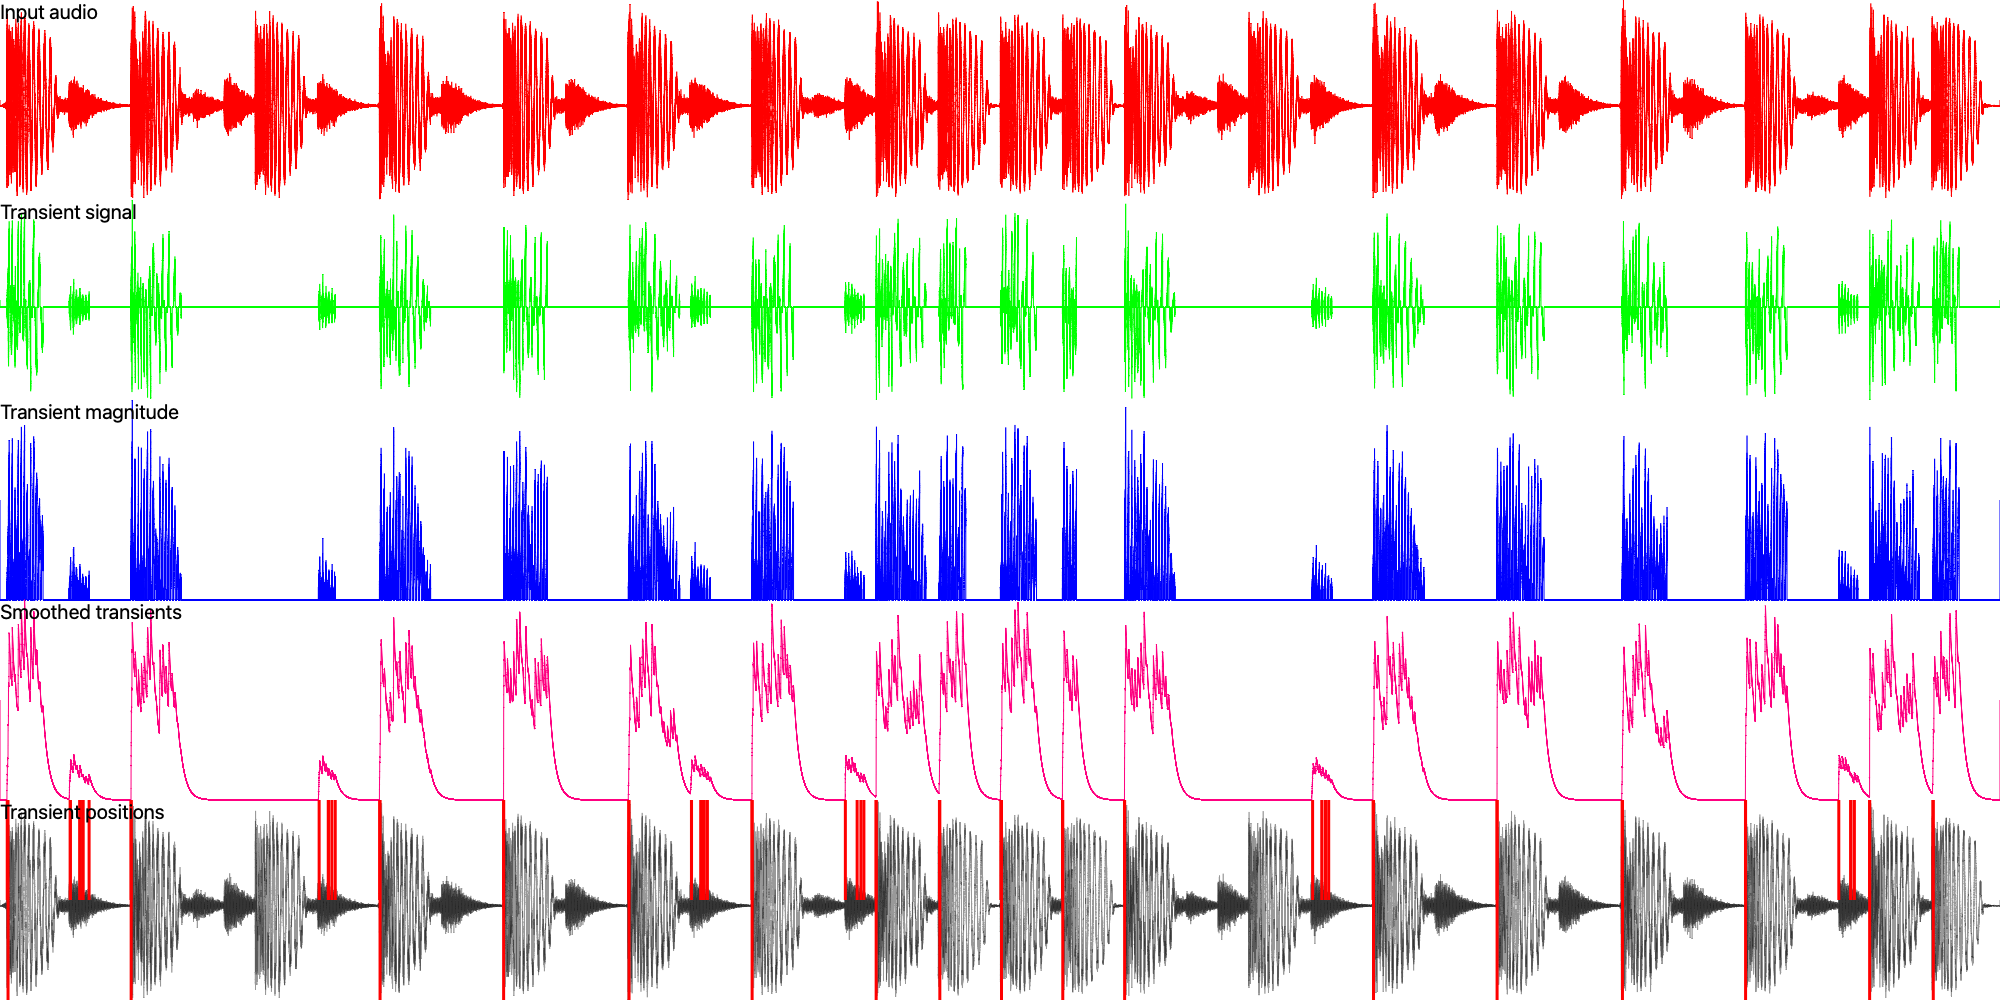
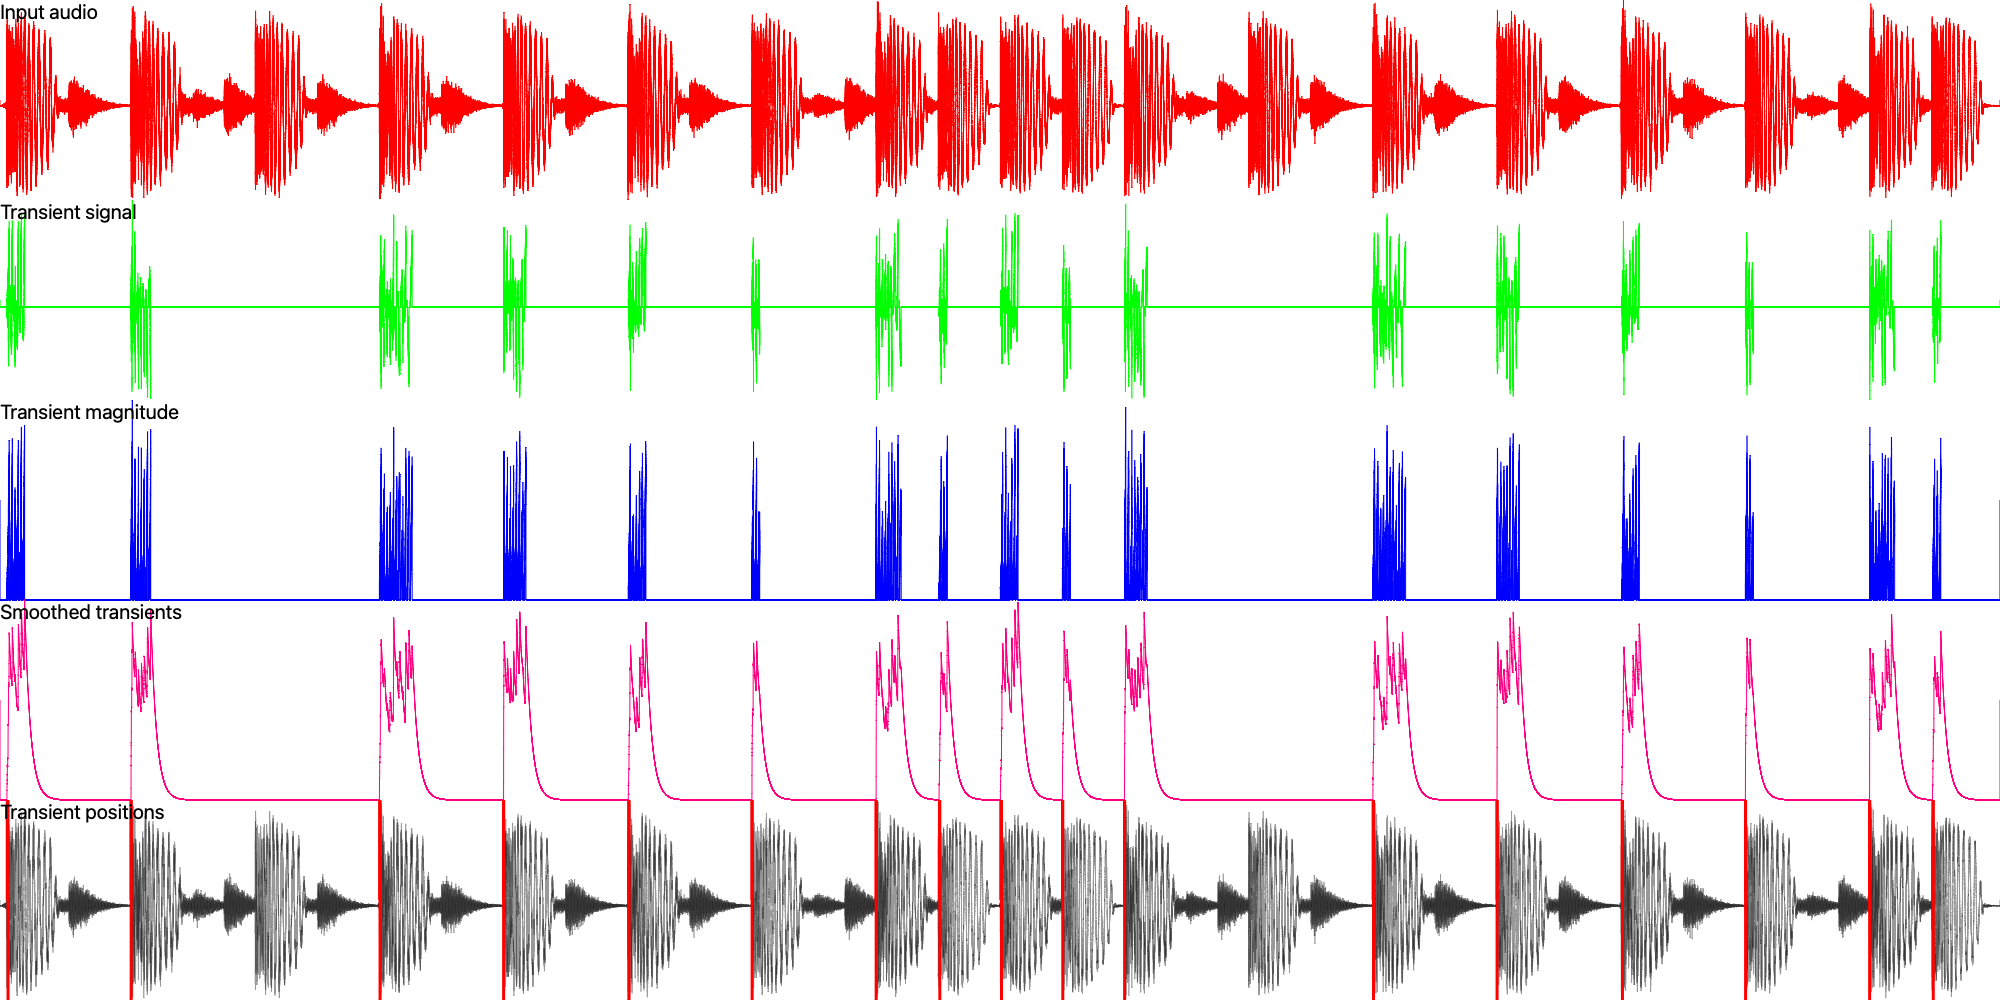
Keep move conservative output as default

diff --git a/crates/augmented/audio/audio-processor-analysis/src/transient_detection/stft.rs b/crates/augmented/audio/audio-processor-analysis/src/transient_detection/stft.rs
@@ -61,7 +61,7 @@ impl Default for IterativeTransientDetectionParams {
             fft_overlap_ratio: 0.75,
             power_of_change_spectral_spread: 3,
             threshold_time_spread: 2,
-            threshold_time_spread_factor: 1.8,
+            threshold_time_spread_factor: 2.0,
             iteration_magnitude_factor: 0.05,
             iteration_count: 20,
             frequency_bin_change_threshold,
